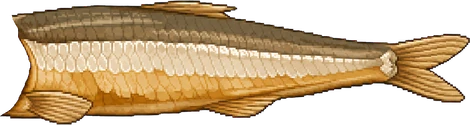
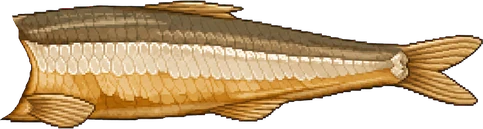
E10 멸치 머리 떼기 2차

diff --git a/css/day-prep-minigames.css b/css/day-prep-minigames.css
@@ -795,29 +795,23 @@
    머리와 몸통이 따로 그려져 있고 종류마다 크기가 달라서, 붙는 자리를
    따로 잡아야 머리와 몸통이 딱 붙습니다. 아래 값은 두 그림의 **잘린 단면**을
    맞춰 잰 값입니다 — 머리의 아가미 뒤 단면과 몸통의 절단면을 세로 중앙끼리
-   포갠 뒤, 가로로는 머리를 **머리 폭의 12% 만큼 몸통 쪽으로 더 밀어 넣었습니다.**
-   단면끼리 정확히 맞대기만 하면 머리 뒤쪽 아가미가 얇게 좁아지는 구간에서
-   바닥이 비쳐 머리가 떠 보였습니다. 아가미가 몸통 앞을 덮는 게 실제 모양이라
-   겹치는 쪽이 자연스럽습니다(머리가 몸통 위에 그려집니다).
+   포갠 뒤, 가로로는 머리를 **몸통 쪽으로 더 밀어 넣었습니다**(머리 폭의 22%,
+   가장 길쭉한 v03 만 34%). 단면끼리 정확히 맞대기만 하면 머리 뒤쪽 아가미가
+   얇게 좁아지는 구간에서 바닥이 비쳐 머리가 떠 보였습니다. 아가미가 몸통 앞을
+   덮는 게 실제 모양이라 겹치는 쪽이 자연스럽습니다(머리가 몸통 위에 그려집니다).
+   v03 만 더 넣은 것은 그림 자체가 길고 납작해서 같은 비율로는 덜 붙어 보이기 때문입니다.
      --a-ratio  멸치 한 마리 전체의 세로/가로 비 (길이에서 높이를 뽑습니다)
      --bd-*     몸통 상자     --hd-*  머리 상자   (둘 다 .anchovy 대비 %)
    상자 비율이 그림 비율과 같아서 object-fit:contain 이 여백 없이 꽉 찹니다.
    ⚠ 에셋을 새로 받으면 이 값도 다시 재야 합니다. */
-.anchovy.v01 { --a-ratio:.216; --bd-l:18.7%; --bd-t:0%; --bd-w:81.3%; --bd-h:100%; --hd-l:0%; --hd-t:15.7%; --hd-w:26.6%; --hd-h:81.1%; }
-.anchovy.v02 { --a-ratio:.216; --bd-l:19.0%; --bd-t:0%; --bd-w:81.0%; --bd-h:100%; --hd-l:0%; --hd-t:14.6%; --hd-w:27.3%; --hd-h:82.3%; }
-.anchovy.v03 { --a-ratio:.161; --bd-l:13.5%; --bd-t:0%; --bd-w:86.5%; --bd-h:100%; --hd-l:0%; --hd-t:17.7%; --hd-w:20.9%; --hd-h:79.6%; }
-.anchovy.v04 { --a-ratio:.239; --bd-l:20.4%; --bd-t:0%; --bd-w:79.6%; --bd-h:100%; --hd-l:0%; --hd-t:15.9%; --hd-w:29.1%; --hd-h:80.1%; }
+.anchovy.v01 { --a-ratio:.222; --bd-l:16.5%; --bd-t:0%; --bd-w:83.5%; --bd-h:100%; --hd-l:0%; --hd-t:15.7%; --hd-w:27.3%; --hd-h:81.1%; }
+.anchovy.v02 { --a-ratio:.222; --bd-l:16.8%; --bd-t:0%; --bd-w:83.2%; --bd-h:100%; --hd-l:0%; --hd-t:14.6%; --hd-w:28.1%; --hd-h:82.3%; }
+.anchovy.v03 { --a-ratio:.169; --bd-l:9.3%;  --bd-t:0%; --bd-w:90.7%; --bd-h:100%; --hd-l:0%; --hd-t:17.7%; --hd-w:21.9%; --hd-h:79.6%; }
+.anchovy.v04 { --a-ratio:.246; --bd-l:18.0%; --bd-t:0%; --bd-w:82.0%; --bd-h:100%; --hd-l:0%; --hd-t:15.9%; --hd-w:29.9%; --hd-h:80.1%; }
 /* 그림이 붙었을 때만 위 좌표를 씁니다. 파일이 없으면 아래 CSS 도형 좌표가 그대로 남습니다. */
 .anchovy:has(.has-prep-asset) { height: calc(var(--a-len) * var(--a-ratio)); }
 .anchovy-body.has-prep-asset { left:var(--bd-l); top:var(--bd-t); width:var(--bd-w); height:var(--bd-h); border-radius:0; }
 .anchovy-head.has-prep-asset { left:var(--hd-l); top:var(--hd-t); width:var(--hd-w); height:var(--hd-h); border-radius:0; }
-/* 흔들기 진행 표시(결 세 줄)도 머리·몸통 이음매로 옮겨 줍니다 */
-.anchovy:has(.has-prep-asset) .anchovy-joint {
-  left: calc(var(--hd-l) + var(--hd-w) * .78);
-  top: calc(var(--hd-t) + var(--hd-h) * .3);
-  width: calc(var(--hd-w) * .22);
-  height: calc(var(--hd-h) * .42);
-}
 .anchovy-body,
 .anchovy-head {
   position: absolute;
@@ -849,7 +843,6 @@
   height: calc(60 * var(--upx));
   border-radius: 50%;
   background: radial-gradient(circle at 62% 38%, #8b9698, #677274);
-  /* 2 인 이유는 .anchovy-innards 주석 참고 — 내장이 몸통과 머리 사이에 끼입니다 */
   z-index: 2;
   transform-origin: right center;
   transition: transform .18s ease, box-shadow .12s ease;
@@ -871,36 +864,11 @@
   cursor: grabbing;
   box-shadow: 0 0 0 calc(2 * var(--upx)) rgba(255,224,141,.58);
 }
-/* 머리와 몸통 사이의 결 세 줄. 방향을 한 번 바꿀 때마다 하나씩 끊어져
-   글을 읽지 않아도 현재 흔들기 진행을 볼 수 있습니다. 별도 에셋은 필요 없습니다. */
-.anchovy-joint {
-  position: absolute;
-  z-index: 4;
-  left: calc(52 * var(--upx));
-  top: calc(20 * var(--upx));
-  width: calc(14 * var(--upx));
-  height: calc(27 * var(--upx));
-  display: flex;
-  flex-direction: column;
-  justify-content: space-around;
-  opacity: 0;
-  pointer-events: none;
-  transition: opacity .12s ease;
-}
-.anchovy-joint i {
-  display: block;
-  width: 100%;
-  height: calc(3 * var(--upx));
-  border-radius: 50%;
-  background: #e4a253;
-  box-shadow: 0 0 calc(3 * var(--upx)) rgba(255,205,119,.55);
-  transform-origin: right center;
-  transition: opacity .12s ease, transform .12s ease;
-}
-.anchovy.grabbing .anchovy-joint { opacity: 1; }
-.anchovy[data-tug="1"] .anchovy-joint i:nth-child(1),
-.anchovy[data-tug="2"] .anchovy-joint i:nth-child(-n+2) { opacity: .18; transform: scaleX(.28) rotate(-18deg); }
-.anchovy.cleaned .anchovy-joint { opacity: 0; }
+/* 머리와 몸통 사이에 있던 '결 세 줄'(흔들기 진행 표시)은 뺐습니다.
+   손으로 그은 선이 그림 위에 얹혀 인위적으로 보였습니다. 진행은 TIP 줄의
+   "흔들기 2 / 3" 글과 몸통이 버티는 움직임(anchovy-body-resist)으로 보여줍니다.
+   되살리려면 이 자리에 .anchovy-joint 규칙과 engine-e10 의 <span> 을 함께
+   되돌리면 됩니다(흔든 횟수는 지금도 data-tug 로 남아 있습니다). */
 .anchovy.tug-pulse .anchovy-body { animation: anchovy-body-resist .16s ease-out; }
 .anchovy.tug-snap:not(.cleaned) .anchovy-head,
 .anchovy.tug-snap:not(.cleaned) .anchovy-innards { animation: anchovy-head-snap .24s ease-out; }
@@ -940,37 +908,36 @@
    머리 뒤쪽 단면에 매달려 있다가 머리를 뜯으면 딸려 나옵니다.
    머리와 **똑같은 transform** 을 걸어 함께 움직입니다.
 
-   [쌓임 순서가 손질 전후로 다릅니다]
-   손질 전  몸통 위 · 머리 아래(z-index:1)  → 이음매에서 내장이 슬쩍 비칩니다
-   손질 후  머리·몸통 **둘 다의 뒤**(z-index:-1) → 몸통 쪽 끝이 몸통에 가려
-            "몸통에서 뽑혀 나온" 모양이 됩니다
-   그래서 머리에 z-index:2 를 유지해야 합니다(그게 없으면 1 도 머리 위입니다).
+   z-index:-1 로 머리·몸통 **둘 다의 뒤**에 둡니다. 그래서 뜯기 전에는 몸통에
+   완전히 가려 안 보이고, 머리가 떨어져 나가면서 벌어진 틈으로 드러납니다.
+   (앞에 두면 손질 전에 몸 밖으로 삐져나온 것처럼 보입니다)
 
    [왜 머리의 자식이 아니라 형제인가]
-   머리 안에 넣으면 손질 후에도 몸통 뒤로 못 갑니다. 뜯기 연출로 머리에
-   transform 이 걸리는 순간 머리가 쌓임 맥락을 만들어 버리기 때문입니다.
+   머리 안에 넣으면 몸통 뒤로 못 갑니다. 뜯기 연출로 머리에 transform 이
+   걸리는 순간 머리가 쌓임 맥락을 만들어 버리기 때문입니다.
 
-   [transform-origin 이 44% 32% 인 이유]
+   [transform-origin 이 35.5% 34.8% 인 이유]
    머리의 회전축(right center)과 **같은 점**을 가리켜야 둘이 어긋나지
    않습니다. 아래 상자는 머리 상자를 기준으로 잡았으므로 그 점의 상대 위치가
-   종류와 무관하게 항상 ((1-.78)/.5, (.5-.42)/.25) = (44%, 32%) 로 떨어집니다.
-   그림은 background-position 으로 상자 **왼쪽**에 붙습니다. 그래야 머리
-   단면에서 시작해 몸통 쪽으로 늘어집니다. */
+   종류와 무관하게 항상 ((1-.78)/.62, (.5-.42)/.23) = (35.5%, 34.8%) 입니다.
+
+   [contain 이 아니라 100% 100% 인 이유]
+   그림(697x229 = 3.04)을 그대로 쓰면 뭉툭합니다. 상자를 4.1 : 1 로 잡고
+   가로로 늘려 조금 더 길쭉하게 뽑습니다. */
 .anchovy-innards {
   position: absolute;
-  z-index: 1;
+  z-index: -1;
   left: calc(var(--hd-l) + var(--hd-w) * .78);
   top: calc(var(--hd-t) + var(--hd-h) * .42);
-  width: calc(var(--hd-w) * .5);
-  height: calc(var(--hd-h) * .25);
-  background: url("../assets/minigame/E10/food_anchovy_innards.webp") left center / contain no-repeat;
-  transform-origin: 44% 32%;
+  width: calc(var(--hd-w) * .62);
+  height: calc(var(--hd-h) * .23);
+  background: url("../assets/minigame/E10/food_anchovy_innards.webp") center / 100% 100% no-repeat;
+  transform-origin: 35.5% 34.8%;
   pointer-events: none;
   transition: transform .18s ease;
 }
 /* 그림을 못 받았으면 아예 그리지 않습니다 */
 .anchovy-innards:not(.has-prep-asset) { display: none; }
-.anchovy.cleaned .anchovy-innards { z-index: -1; }
 /* 왼쪽 재료 카드 : 통멸치 묶음 한 장을 기울여 앉힙니다.
    그림이 가로 4.17 : 세로 1 로 아주 납작해서, 눕혀 놓으면 카드 위아래가
    텅 빕니다. 22도쯤 기울여 카드의 대각선을 쓰게 하면 같은 폭에서도 세로를

diff --git a/engine-e10-target-click.js b/engine-e10-target-click.js
@@ -40,19 +40,30 @@ function setupAnchovyPrep(){
   // ⚠ 원래 3열 x 3행이었습니다. 멸치를 210 → 270 으로 키우면서 한 줄에 세
   //    마리가 안 들어가(270 x 3 = 810 > 바닥 730) 2열로 바꿨습니다.
   // ⚠ x·y 는 .anchovy-floor(나무 쟁반 테두리 **안쪽** 바닥 730 x 506) 기준 %입니다.
-  //    멸치는 270 x 최대 65 크기에 ±9° 회전 · 최대 1.06배 확대가 걸려서 자기
-  //    자리보다 가로 14 · 세로 26 쯤 더 삐져나옵니다. 아래 범위는 그 몫까지
+  //    멸치는 270 x 최대 66 크기에 ±11° 회전 · 최대 1.06배 확대가 걸려서 자기
+  //    자리보다 가로 14 · 세로 29 쯤 더 삐져나옵니다. 아래 범위는 그 몫까지
   //    바닥 안에 들어오고, 옆·아래 이웃과도 안 겹치도록 잡은 값입니다.
-  //      가로 2~8% / 52~58%   (두 마리 사이 23 이상 벌어짐)
-  //      세로 6~9 / 30~33 / 54~57 / 78~81%   (줄 간격 24% = 121 > 한 마리 112)
+  //      가로  왼줄 2~9% (짝수 줄) / 6~13% (홀수 줄)
+  //            오른줄 53~56% / 57~60%
+  //      세로  6~9 / 30~33 / 54~57 / 78~81%   (줄 간격 24% = 121 > 한 마리 118)
+  //
+  //    stagger : 한 줄 걸러 4% 씩 오른쪽으로 밀어 놓습니다. 8칸 격자를 그대로
+  //    쓰면 두 줄이 세로로 딱 맞아떨어져 "오와열 맞춘" 느낌이 납니다.
+  //    가로로 남는 자리가 190 뿐이라(730 - 270 x 2) 흔들 폭을 더 못 키우는
+  //    대신, 줄마다 어긋나게 해서 흩어진 느낌을 냅니다.
   const slots=shuffle(Array.from({length:8},(_,index)=>index)).slice(0,config.total);
   // 멸치 그림 4종을 두 벌 섞어 돌려 씁니다. 7마리면 4종이 최소 한 번씩은 나옵니다.
   // 붙이는 좌표는 css/day-prep-minigames.css 의 .anchovy.v01~v04 가 갖고 있습니다.
   const variants=shuffle(ANCHOVY_VARIANTS.concat(ANCHOVY_VARIANTS)).slice(0,config.total);
-  setDayPrepData({mode:"anchovy",cleaned:0,total:config.total,timeLimit:config.timeLimit,timeLeft:config.timeLimit,timerWarningPlayed:false,requiredShakes:config.requiredShakes,swingDistance:config.swingDistance,timedOut:false,finishing:false,grip:null,items:slots.map((slot,index)=>({
-    id:index,cleaned:false,variant:variants[index],x:2+(slot%2)*50+Math.random()*6,y:6+Math.floor(slot/2)*24+Math.random()*3,
-    rotation:-9+Math.random()*18,scale:.94+Math.random()*.12,flip:Math.random()>.5?-1:1
-  }))});
+  setDayPrepData({mode:"anchovy",cleaned:0,total:config.total,timeLimit:config.timeLimit,timeLeft:config.timeLimit,timerWarningPlayed:false,requiredShakes:config.requiredShakes,swingDistance:config.swingDistance,timedOut:false,finishing:false,grip:null,items:slots.map((slot,index)=>{
+    const col=slot%2,row=Math.floor(slot/2),stagger=(row%2)*4;
+    return {
+      id:index,cleaned:false,variant:variants[index],
+      x:(col?53:2)+stagger+Math.random()*(col?3:7),
+      y:6+row*24+Math.random()*3,
+      rotation:-11+Math.random()*22,scale:.94+Math.random()*.12,flip:Math.random()>.5?-1:1
+    };
+  })});
   dom.miniTitle.textContent=config.title;
   dom.miniDescription.textContent="멸치 머리를 잡고 좌우로 흔들어 뜯어주세요. 제한시간 안에 모두 손질해야 합니다!";
   renderAnchovyPrep();
@@ -99,7 +110,6 @@ function renderAnchovyPrep(){
           <i class="anchovy-innards ${hasDayPrepAsset("anchovyInnards")?"has-prep-asset":""}" aria-hidden="true"></i>
           <button class="anchovy-body ${hasDayPrepAsset(`anchovyBody${item.variant}`)?"has-prep-asset":""}" type="button" aria-label="${item.id+1}번 멸치 몸통">${dayPrepAssetMarkup(`anchovyBody${item.variant}`,"anchovy-body-asset","")}</button>
           <button class="anchovy-head ${hasDayPrepAsset(`anchovyHead${item.variant}`)?"has-prep-asset":""}" type="button" aria-label="${item.id+1}번 멸치 머리">${dayPrepAssetMarkup(`anchovyHead${item.variant}`,"anchovy-head-asset","")}</button>
-          <span class="anchovy-joint" aria-hidden="true"><i></i><i></i><i></i></span>
         </div>`).join("")}
         </div>
       </div>

diff --git a/tools/build-minigame-art-webp.js b/tools/build-minigame-art-webp.js
@@ -51,15 +51,15 @@ const FILES = [
      --size 로 최대 1.06배까지 커집니다. 그래서 "전체 길이 580 = 270 x 2배율에
      여유를 더한 값" 을 기준으로 각 조각의 몫만큼 나눠 가집니다.
      비율(머리 몫 / 몸통 몫)은 css/day-prep-minigames.css 의 --hd-w / --bd-w 와 같습니다. */
-  { file:"E10/food_anchovy_whole_01_body.png", size:[472,126], css:".anchovy 270 중 81.3%" },
-  { file:"E10/food_anchovy_whole_01_head.png", size:[154,102], css:".anchovy 270 중 26.6%" },
-  { file:"E10/food_anchovy_whole_02_body.png", size:[470,125], css:".anchovy 270 중 81.0%" },
-  { file:"E10/food_anchovy_whole_02_head.png", size:[158,103], css:".anchovy 270 중 27.3%" },
-  { file:"E10/food_anchovy_whole_03_body.png", size:[502, 93], css:".anchovy 270 중 86.5%" },
-  { file:"E10/food_anchovy_whole_03_head.png", size:[121, 74], css:".anchovy 270 중 20.9%" },
-  { file:"E10/food_anchovy_whole_04_body.png", size:[462,139], css:".anchovy 270 중 79.6%" },
-  { file:"E10/food_anchovy_whole_04_head.png", size:[169,111], css:".anchovy 270 중 29.1%" },
-  // 멸치 똥 — 머리 폭의 절반짜리 상자에 contain 으로 들어갑니다 (약 36x12)
+  { file:"E10/food_anchovy_whole_01_body.png", size:[484,129], css:".anchovy 270 중 83.5%" },
+  { file:"E10/food_anchovy_whole_01_head.png", size:[158,105], css:".anchovy 270 중 27.3%" },
+  { file:"E10/food_anchovy_whole_02_body.png", size:[483,129], css:".anchovy 270 중 83.2%" },
+  { file:"E10/food_anchovy_whole_02_head.png", size:[163,106], css:".anchovy 270 중 28.1%" },
+  { file:"E10/food_anchovy_whole_03_body.png", size:[526, 98], css:".anchovy 270 중 90.7%" },
+  { file:"E10/food_anchovy_whole_03_head.png", size:[127, 78], css:".anchovy 270 중 21.9%" },
+  { file:"E10/food_anchovy_whole_04_body.png", size:[475,143], css:".anchovy 270 중 82.0%" },
+  { file:"E10/food_anchovy_whole_04_head.png", size:[174,114], css:".anchovy 270 중 29.9%" },
+  // 멸치 똥 — 머리 폭의 0.62배 상자에 100% 100% 로 늘려 채웁니다 (약 46x11)
   { file:"E10/food_anchovy_innards.png",       size:[140, 46], css:".anchovy-innards 약 36x12" },
   // 손질 전 통멸치 묶음 — E10(머리 떼기)의 왼쪽 재료 카드
   { file:"E10/food_anchovy_whole_group_3.png", size:[560,134], css:"E10 재료 카드 약 210" },
